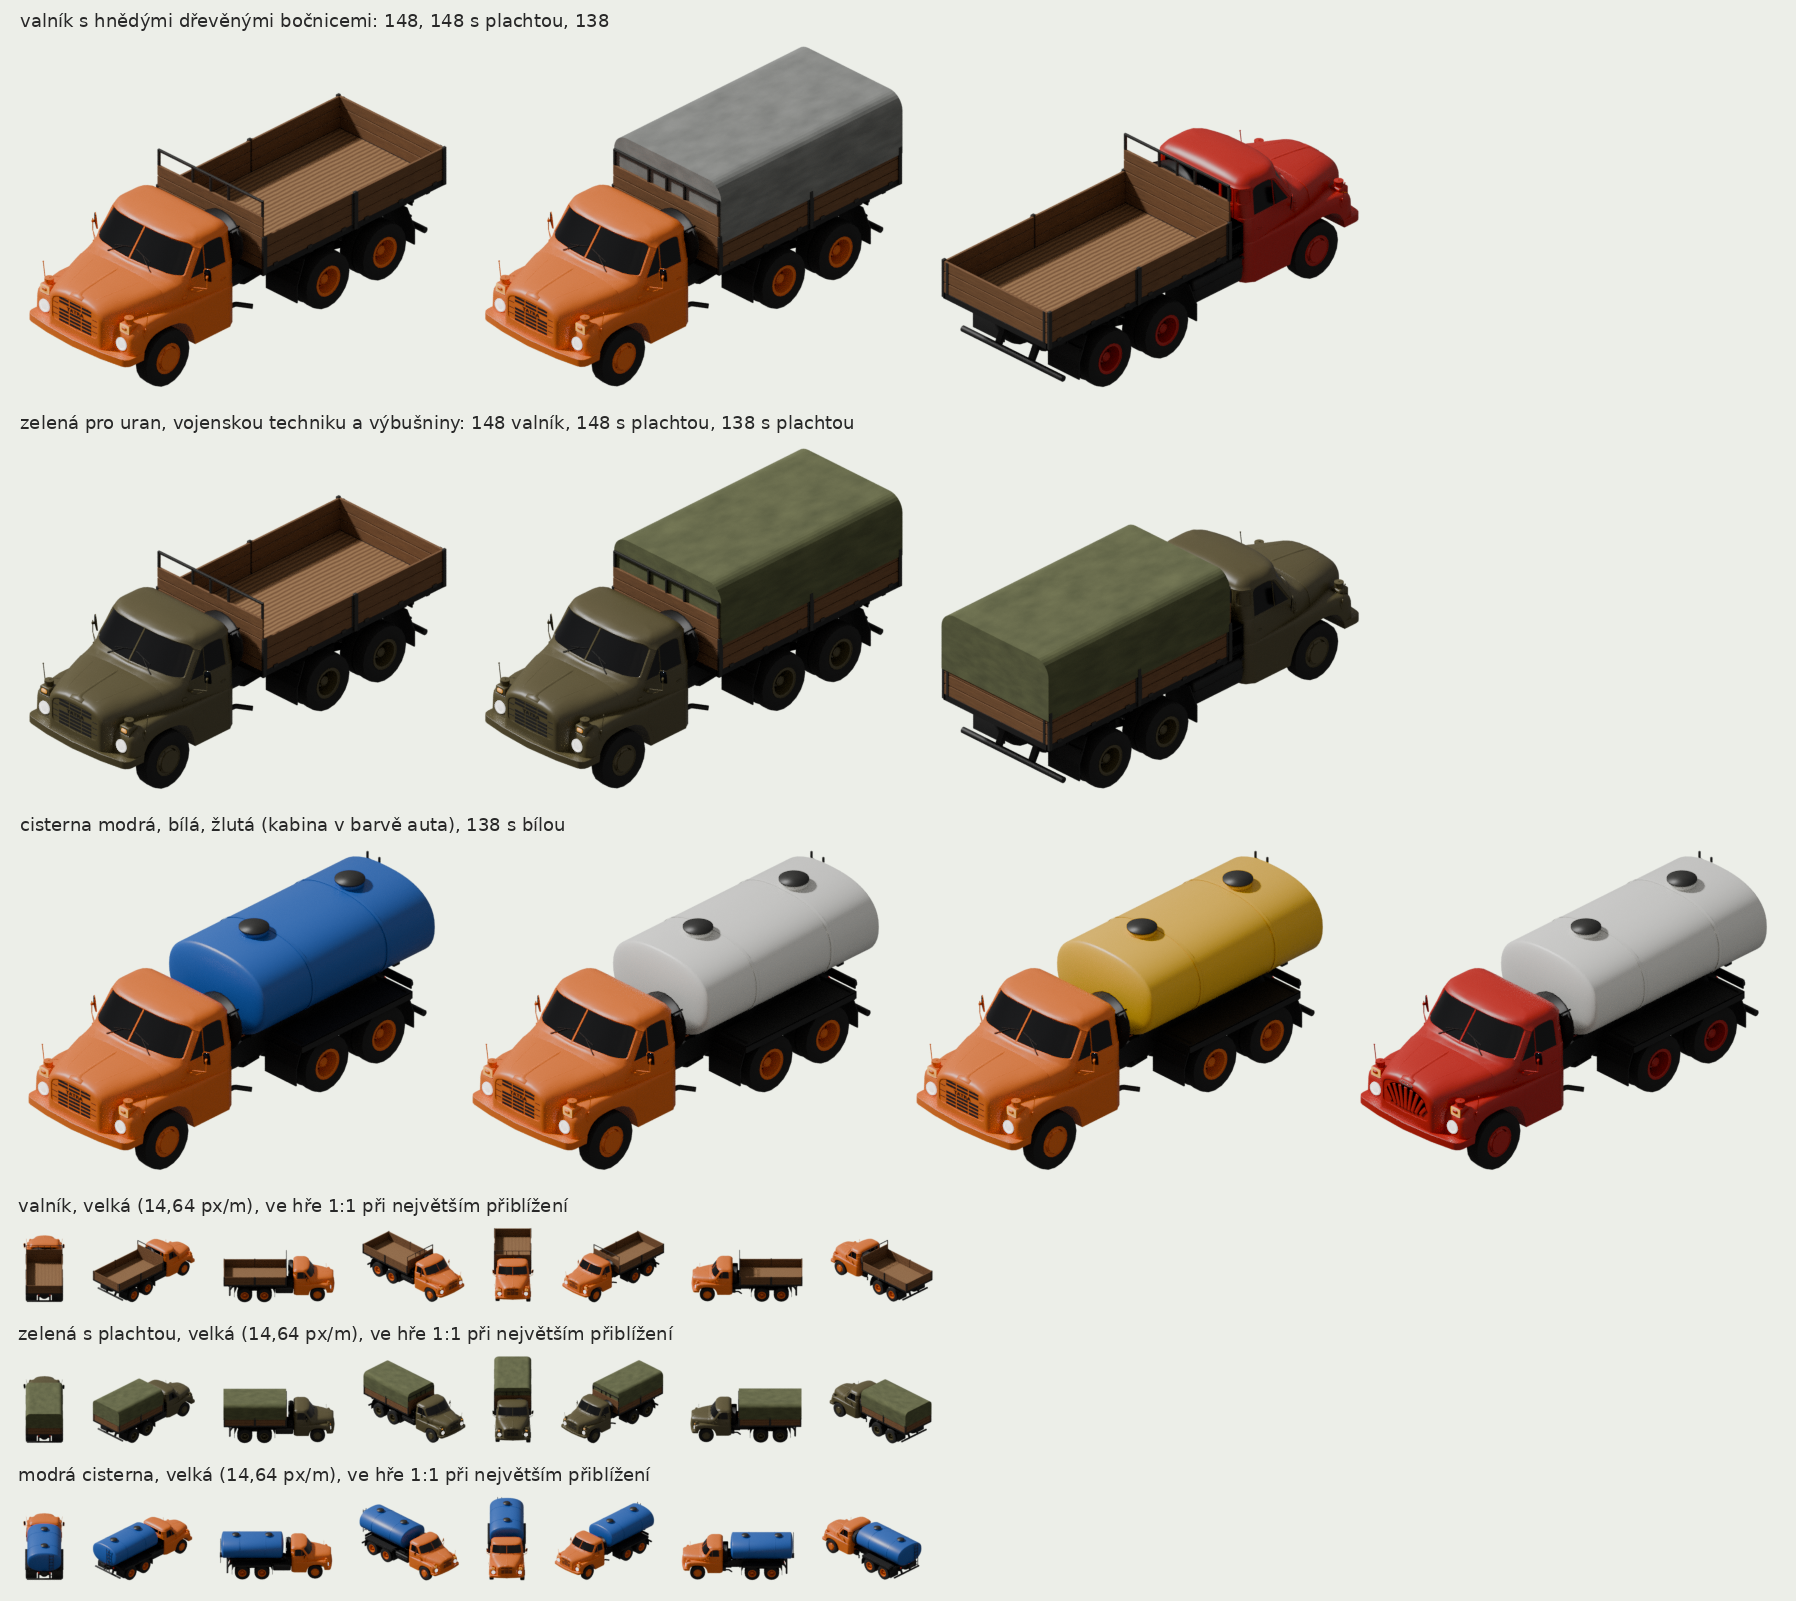
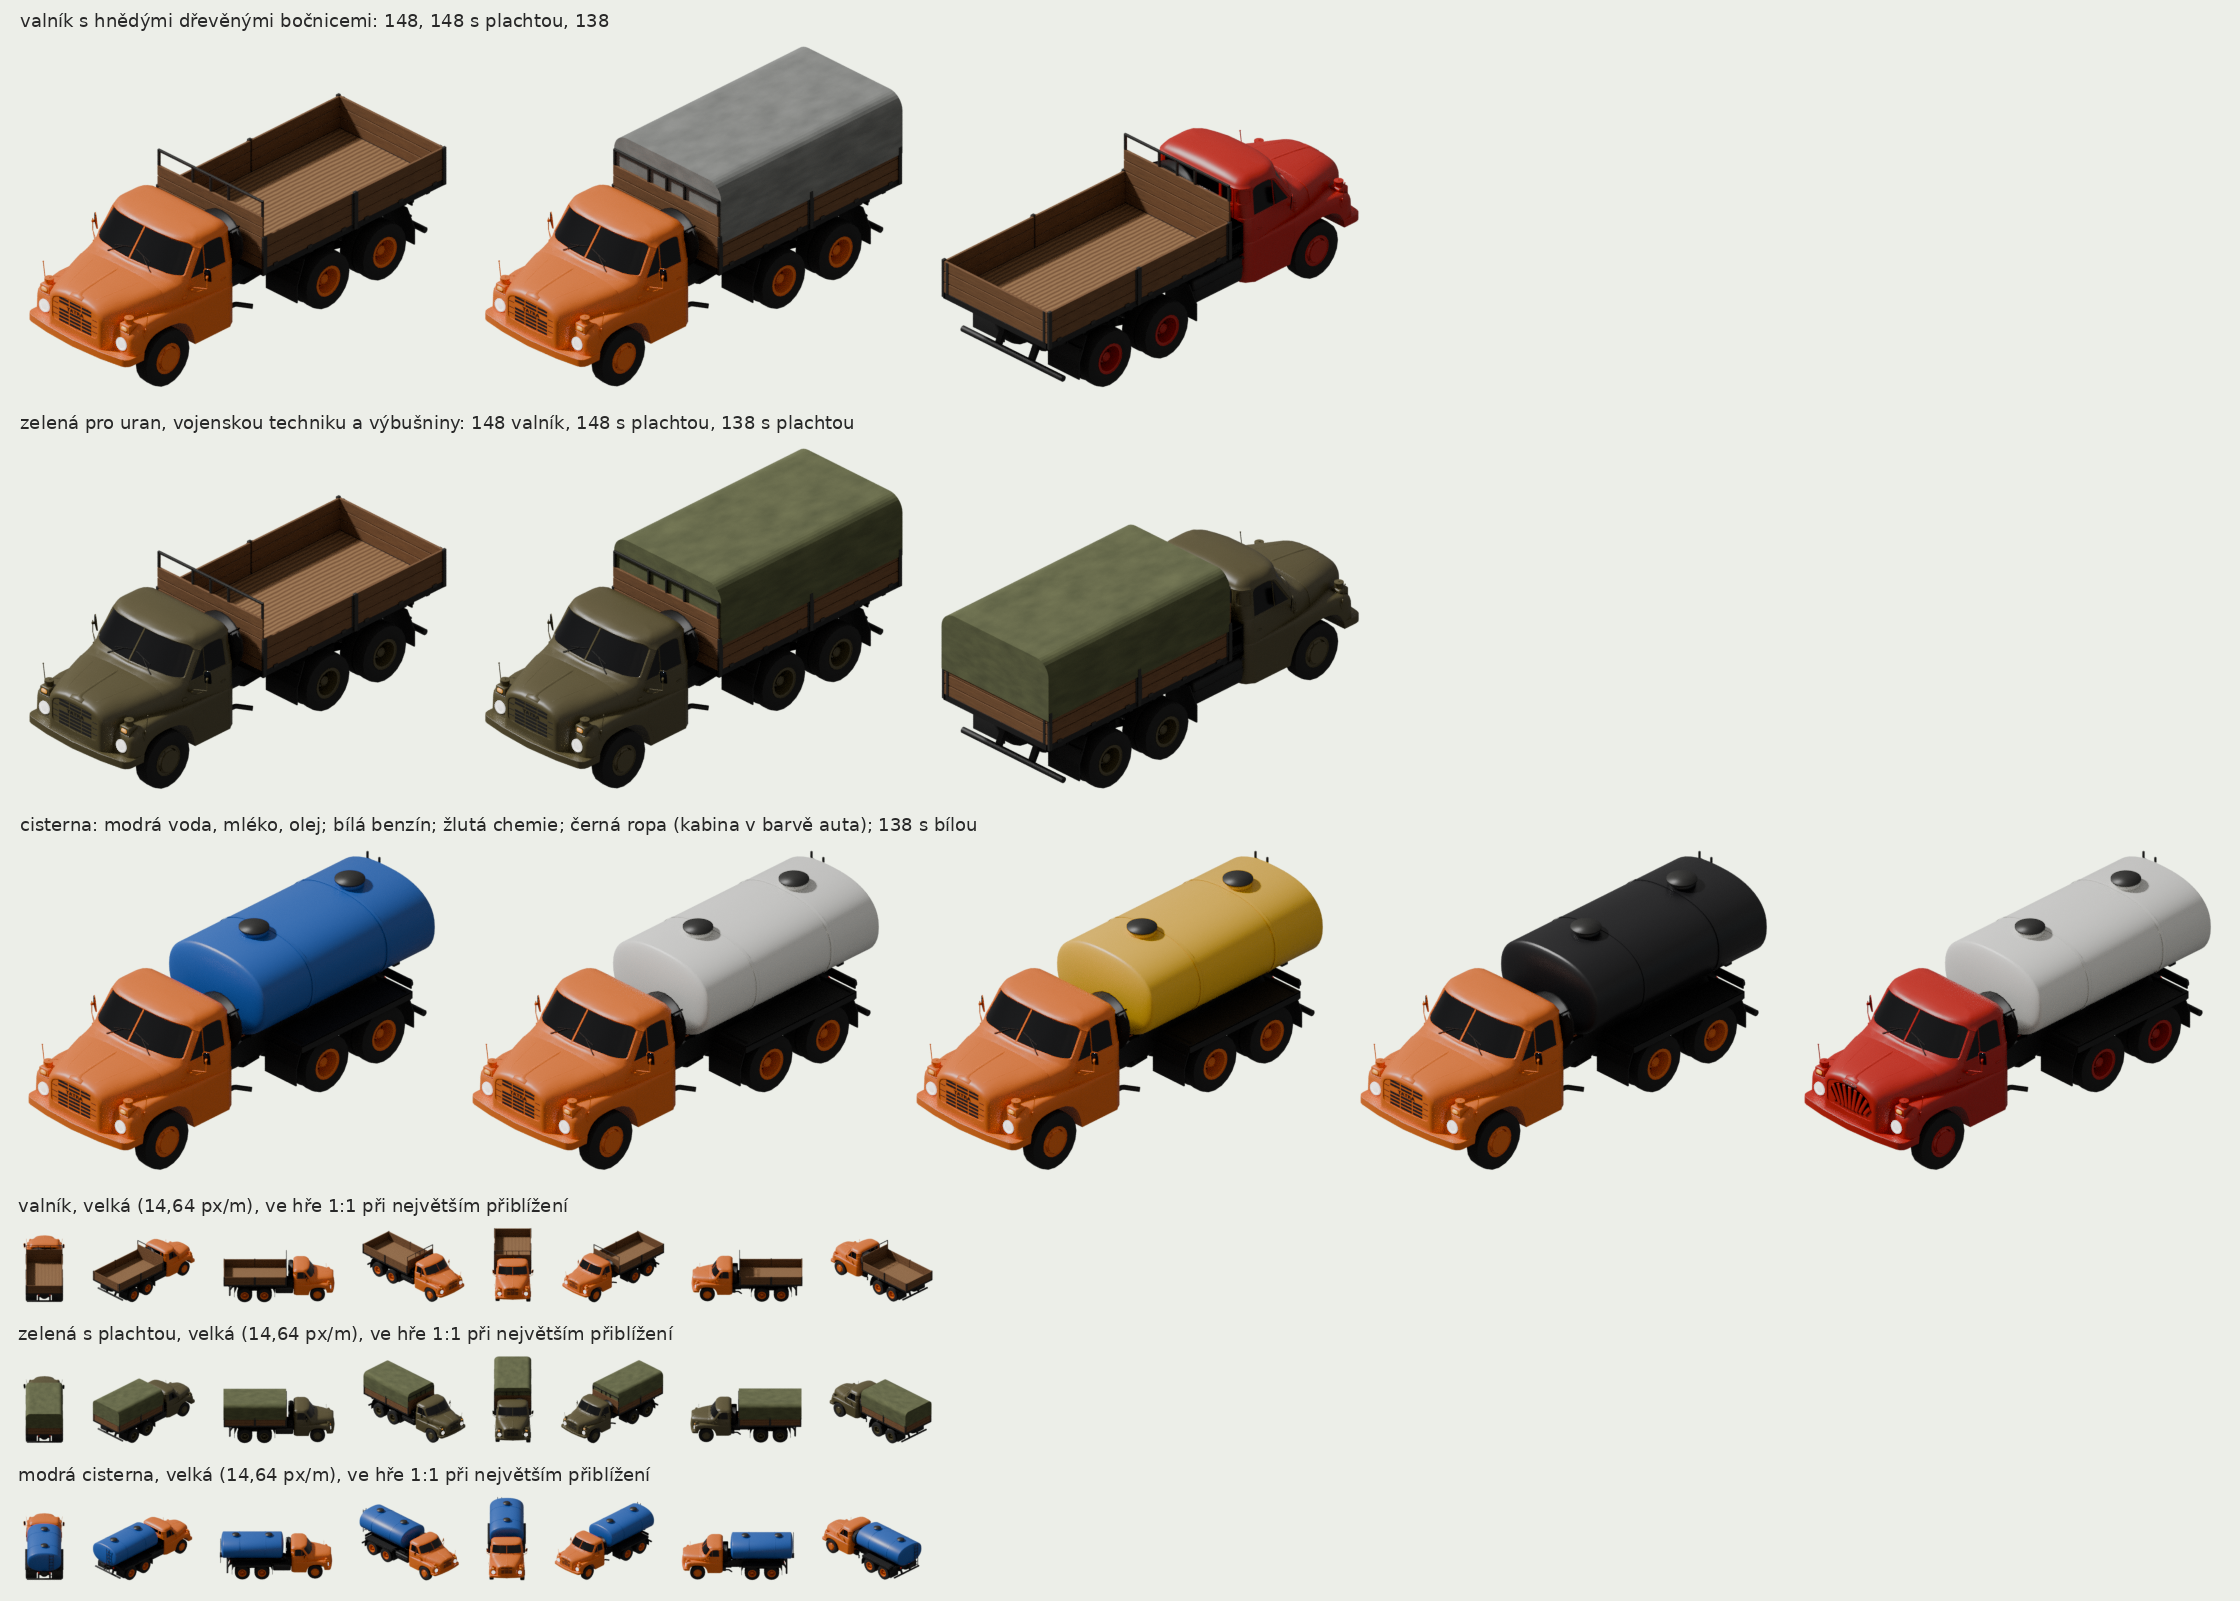
Tatra: blinkry v barve auta u vsech, cerna cisterna na ropu
Skrinky svetel na blatnicich jsou u vsech nateru v barve auta, oranzove
jen sklicko. Cisterna i cerna (ropa); modra voda, mleko a olej, bila
benzin, zluta chemie.

Claude-Session: https://claude.ai/code/session_01P6zYdmMEQjTTZJyV6Qb8Ch

diff --git a/tatra/render_sklapec.py b/tatra/render_sklapec.py
@@ -97,9 +97,8 @@ def je_sklo(mn, mx, plocha):
         return "svetlo"                                                                                           # reflektory v blatnicich
     # Svetla na blatnicich: skrinka x 0,83 az 1,04, z 1,23 az 1,38 s prednim stitkem (y -0,26) a pred nim sklicko
     # 11 x 6 cm (y -0,29). Hrac 29. 9.: "vojenskou kolem blinkru na zeleno taky, u cervene a oranzove to nebude videt,
-    # tam je to dobry": u zelene je stitek v barve auta a oranzove jen sklicko, u ostatnich oranzove oboji.
-    if jedna_strana and mn.y >= -0.27 and mx.y <= -0.24 and 0.8 <= ax0 and ax1 <= 1.06 and mn.z >= 1.2 and mx.z <= 1.4 and plocha >= 0.02:
-        return None if NATER == "vojenska" else "blinkr"                                                          # stitek smerovky
+    # tam je to dobry", pak "tu zelenou jsi dobarvil dobre, udelej tak oranzovou a cervenou": stitek je vzdy v barve
+    # auta (zustane soucasti kabiny) a oranzove je jen sklicko.
     if jedna_strana and mn.y >= -0.30 and mx.y <= -0.26 and 0.88 <= ax0 and ax1 <= 1.01 and mn.z >= 1.27 and mx.z <= 1.35 and plocha < 0.02:
         return "blinkr"                                                                                           # sklicko smerovky
     return None
@@ -328,7 +327,9 @@ if KORBA == "cisterna":
     m_klanice = mat("klanice", (40, 40, 38), 0.5)
     # hrac 29. 9.: "chtelo by to tri barvy cisterny modrou, bilou a zlutou, jenom tu cisternu na aute jinou barvou",
     # "celooranzovou a celocervenou cisternu nebudem pouzivat". Kabina zustava v barve auta.
-    BARVY_CISTERNY = {"modra": (36, 84, 168), "bila": (226, 226, 220), "zluta": (232, 178, 28)}
+    # Hrac 29. 9., co v ktere: "zluta chemie, modra voda, mliko, olej a bila benzin, asi na ropu musime udelat cernou
+    # tmavou".
+    BARVY_CISTERNY = {"modra": (36, 84, 168), "bila": (226, 226, 220), "zluta": (232, 178, 28), "cerna": (26, 26, 28)}
     m_cis = mat("cisterna", BARVY_CISTERNY[os.environ.get("CISTERNA", "modra")], 0.4)
     A_, B_, N_, ZC_ = 1.15, 0.725, 2.4, 1.30 + 0.725
     Y0T, Y1T, HL = 2.76, 7.02, 0.16                                        # od, do, hloubka dna

diff --git a/tatra/README.md b/tatra/README.md
@@ -75,14 +75,17 @@ vojenská, oranžový tatrovácky 148 a červený komunistická červená 138“
   a celočervená“*.
   - Valník: bočnice, zadní a přední čelo z vodorovných hnědých prken s mezerami (bočnice a zadní čelo tři prkna,
     přední pět), kování a klanice tmavé, rám podlahy černý. V barvě auta je jen kabina.
-  - Cisterna: `CISTERNA=modra|bila|zluta` (nádrž, obruče a průlezy), kabina v barvě auta.
+  - Cisterna: `CISTERNA=modra|bila|zluta|cerna` (nádrž, obruče a průlezy), kabina v barvě auta. Co v které (hráč:
+    *„žlutá chemie, modrá voda, mlíko, olej a bílá benzín, asi na ropu musíme udělat černou tmavou“*): modrá voda,
+    mléko a olej, bílá benzín, žlutá chemie, černá ropa. Přiřazení kódů nákladů se udělá při skládání GRF.
   - Sklápěč zůstává celý v barvě auta (148 oranžová, 138 červená).
 - **Zelená vojenská Tatra** (hráč: *„na ty věci, co vozí jenom zelená vejtřaska, uděláme zelenou Tatru 138 a 148
   valník a valník plachta, pro uranový věci, military, explosives“*): nátěr `vojenska` olivový jako vojenská
   vejtřaska (80, 74, 48), valník s hnědými bočnicemi a vojenská olivová plachta (výchozí pro `vojenska`).
   Světla na blatnících (hráč: *„vojenskou kolem blinkrů na zeleno taky, u červené a oranžové to nebude vidět, tam
   je to dobrý“*): u zelené je štítek skříňky v barvě auta a oranžové jen sklíčko (11 × 6 cm), u oranžové a červené
-  zůstává oranžový celý štítek. Náhled `nahledy/blinkry.png`.
+  zůstává oranžový celý štítek. Pak *„tu zelenou jsi dobarvil dobře, udělej tak oranžovou a červenou“*: štítek je
+  u všech v barvě auta, oranžové je jen sklíčko. Náhled `nahledy/blinkry.png`.
 - **Náklady** (hráč: *„náklady bude mít jako vejtřaska, jen tekutiny budou v cisterně“*): na valník stejné vrstvy jako
   u vejtřasky, tekutiny místo sudů v cisterně. Ještě neuděláno.
 - Náhled barev: `nahledy/barvy.png`.
